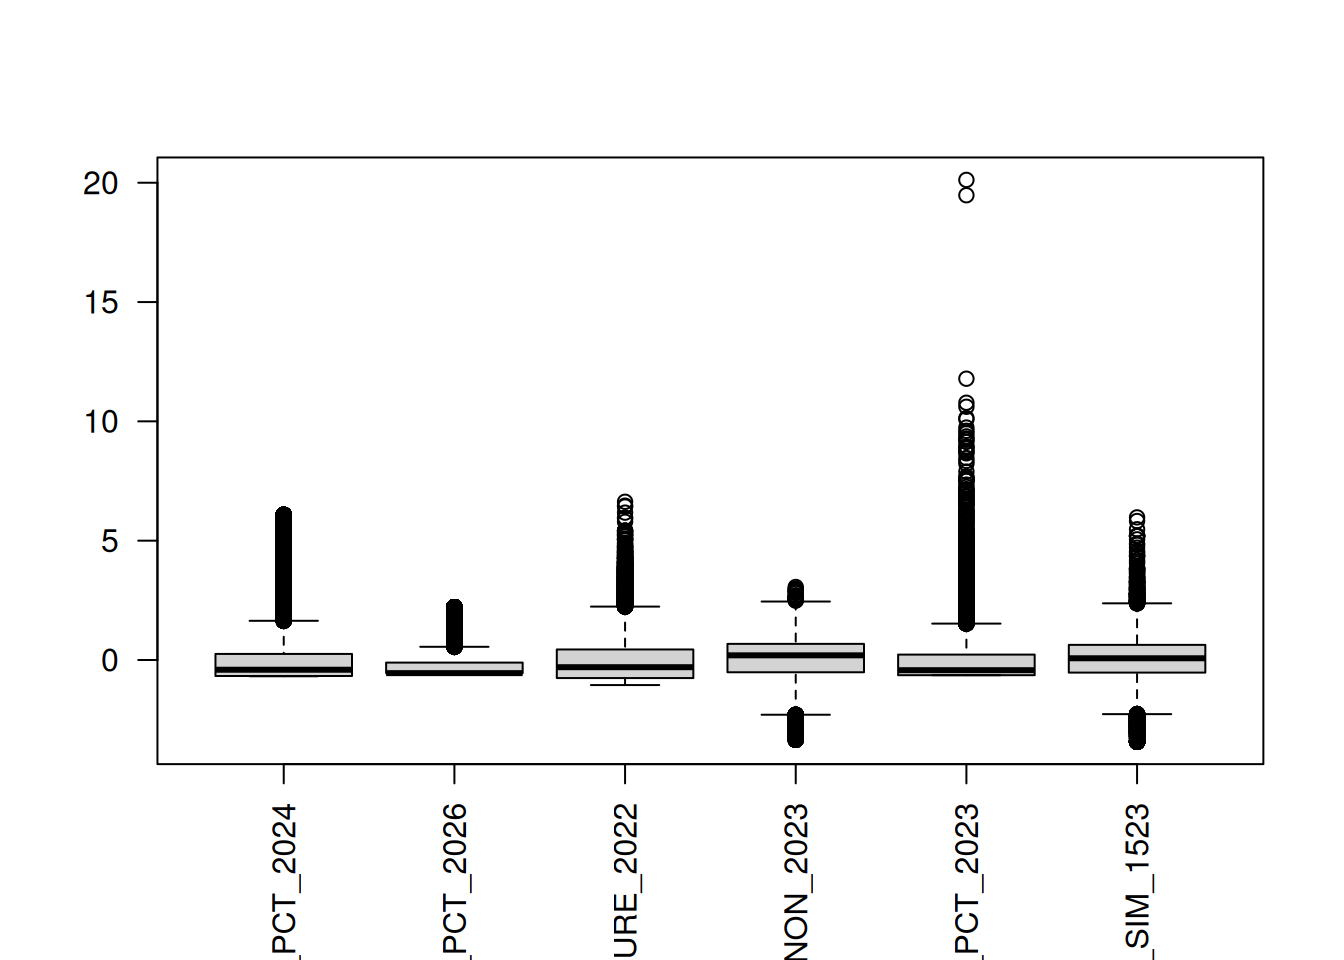
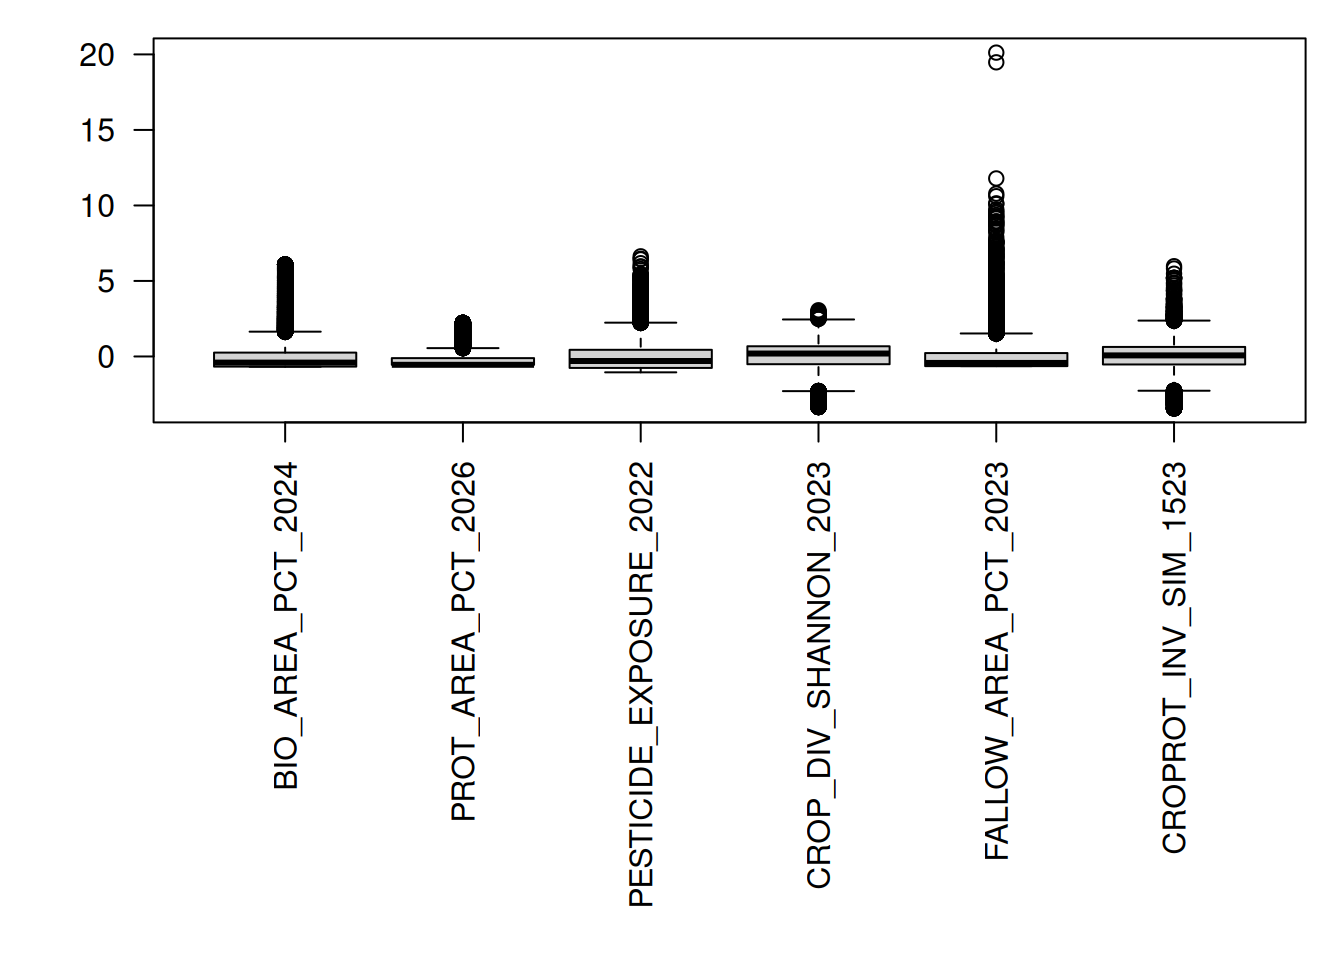
minor update on 05_test_multivariate

diff --git a/docs/analysis/05_test_multivariate.html b/docs/analysis/05_test_multivariate.html
@@ -132,9 +132,9 @@ ul.task-list li input[type="checkbox"] {
 
 <section id="objective" class="level2">
 <h2 class="anchored" data-anchor-id="objective">Objective</h2>
-<p>The idea is to use a <em>multivariate</em> length and see :</p>
+<p>The idea is to use a <em>multivariate</em> lens and explore :</p>
 <ul>
-<li>what are the main political stringency “axis” : i.e.&nbsp;differences among communes in political stringency indicators across France</li>
+<li>what are the main political stringency “axis” i.e.&nbsp;the main differences among communes in political stringency indicators across France?</li>
 <li>are the main axis of variations in political stringency indicators similar if calculated per regions?</li>
 </ul>
 <section id="background-information" class="level3">
